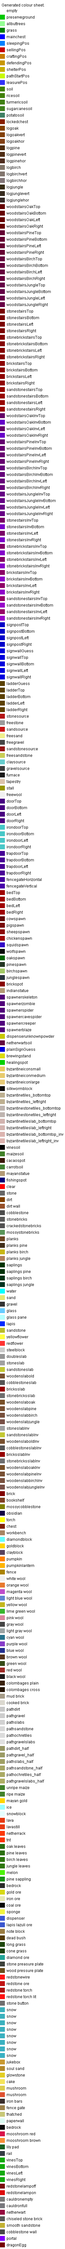
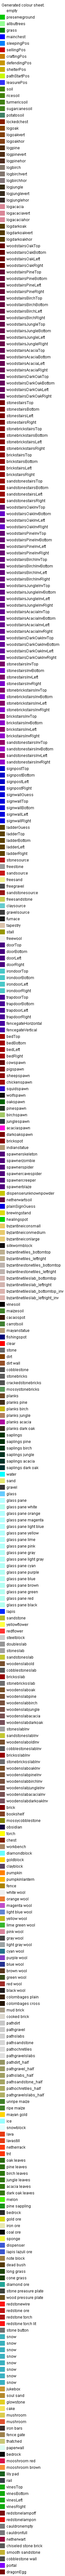
Added support for acacia and dark oak
Notes :
- not enabled in cultures yet
- acacia and dark oak can't be used as "any wood" for now

Changed region(s): [[0.0, 0.0, 0.81, 1.0]]

diff --git a/mill/org/millenaire/common/building/BuildingPlan.java b/mill/org/millenaire/common/building/BuildingPlan.java
@@ -98,6 +98,9 @@ public class BuildingPlan implements IBuildingPlan {
 
 			blogoakvert = "logoakvert", blogoakhor = "logoakhor", blogpinevert = "logpinevert", blogpinehor = "logpinehor", blogbirchvert = "logbirchvert", blogbirchhor = "logbirchhor",
 			blogjunglevert = "logjunglevert", blogjunglehor = "logjunglehor",
+			
+			blogdarkoakvert = "logdarkoakvert", blogdarkoakhor = "logdarkoakhor",
+			blogacaciavert = "logacaciavert", blogacaciahor = "logacaciahor",
 
 			bstonestairGuess = "stonestairGuess", bladderGuess = "ladderGuess", bsignwallGuess = "signwallGuess",
 
@@ -108,6 +111,12 @@ public class BuildingPlan implements IBuildingPlan {
 			bwoodstairsBirchTop = "woodstairsBirchTop", bwoodstairsBirchBottom = "woodstairsBirchBottom", bwoodstairsBirchLeft = "woodstairsBirchLeft", bwoodstairsBirchRight = "woodstairsBirchRight",
 			bwoodstairsJungleTop = "woodstairsJungleTop", bwoodstairsJungleBottom = "woodstairsJungleBottom", bwoodstairsJungleLeft = "woodstairsJungleLeft",
 			bwoodstairsJungleRight = "woodstairsJungleRight",
+			
+			bwoodstairsDarkOakTop = "woodstairsDarkOakTop", bwoodstairsDarkOakBottom = "woodstairsDarkOakBottom", bwoodstairsDarkOakLeft = "woodstairsDarkOakLeft",
+			bwoodstairsDarkOakRight = "woodstairsDarkOakRight",
+			bwoodstairsAcaciaTop = "woodstairsAcaciaTop", bwoodstairsAcaciaBottom = "woodstairsAcaciaBottom", bwoodstairsAcaciaLeft = "woodstairsAcaciaLeft",
+			bwoodstairsAcaciaRight = "woodstairsAcaciaRight",
+			
 
 			bstonestairsTop = "stonestairsTop", bstonestairsBottom = "stonestairsBottom", bstonestairsLeft = "stonestairsLeft", bstonestairsRight = "stonestairsRight",
 			bstonebrickstairsTop = "stonebrickstairsTop", bstonebrickstairsBottom = "stonebrickstairsBottom", bstonebrickstairsLeft = "stonebrickstairsLeft",
@@ -121,6 +130,11 @@ public class BuildingPlan implements IBuildingPlan {
 			bwoodstairsBirchInvBottom = "woodstairsBirchInvBottom", bwoodstairsBirchInvLeft = "woodstairsBirchInvLeft", bwoodstairsBirchInvRight = "woodstairsBirchInvRight",
 			bwoodstairsJungleInvTop = "woodstairsJungleInvTop", bwoodstairsJungleInvBottom = "woodstairsJungleInvBottom", bwoodstairsJungleInvLeft = "woodstairsJungleInvLeft",
 			bwoodstairsJungleInvRight = "woodstairsJungleInvRight",
+			
+			bwoodstairsDarkOakInvTop = "woodstairsDarkOakInvTop", bwoodstairsDarkOakInvBottom = "woodstairsDarkOakInvBottom", bwoodstairsDarkOakInvLeft = "woodstairsDarkOakInvLeft",
+			bwoodstairsDarkOakInvRight = "woodstairsDarkOakInvRight",
+			bwoodstairsAcaciaInvTop = "woodstairsAcaciaInvTop", bwoodstairsAcaciaInvBottom = "woodstairsAcaciaInvBottom", bwoodstairsAcaciaInvLeft = "woodstairsAcaciaInvLeft",
+			bwoodstairsAcaciaInvRight = "woodstairsAcaciaInvRight",
 
 			bstonestairsInvTop = "stonestairsInvTop", bstonestairsInvBottom = "stonestairsInvBottom", bstonestairsInvLeft = "stonestairsInvLeft", bstonestairsInvRight = "stonestairsInvRight",
 			bstonebrickstairsInvTop = "stonebrickstairsInvTop", bstonebrickstairsInvBottom = "stonebrickstairsInvBottom", bstonebrickstairsInvLeft = "stonebrickstairsInvLeft",
@@ -141,6 +155,7 @@ public class BuildingPlan implements IBuildingPlan {
 			birondoorBottom = "irondoorBottom", birondoorRight = "irondoorRight", birondoorLeft = "irondoorLeft", btrapdoorTop = "trapdoorTop", btrapdoorBottom = "trapdoorBottom",
 			btrapdoorRight = "trapdoorRight", btrapdoorLeft = "trapdoorLeft", bfenceGateHorizontal = "fencegateHorizontal", bfenceGateVertical = "fencegateVertical", bbedTop = "bedTop",
 			bbedBottom = "bedBottom", bbedRight = "bedRight", bbedLeft = "bedLeft", boakspawn = "oakspawn", bpinespawn = "pinespawn", bbirchspawn = "birchspawn", bjunglespawn = "junglespawn",
+			bdarkoakspawn = "darkoakspawn", bacaciaspawn = "acaciaspawn",
 			bbrickspot = "brickspot", bindianstatue = "indianstatue", bmayanstatue = "mayanstatue", bbyzantineiconsmall = "byzantineiconsmall", bbyzantineiconmedium = "byzantineiconmedium",
 			bbyzantineiconlarge = "byzantineiconlarge", bfishingspot = "fishingspot", bspawnerskeleton = "spawnerskeleton", bspawnerzombie = "spawnerzombie", bspawnerspider = "spawnerspider",
 			bspawnercavespider = "spawnercavespider", bspawnercreeper = "spawnercreeper", bspawnerblaze = "spawnerblaze", bdispenserunknownpowder = "dispenserunknownpowder",
@@ -161,6 +176,7 @@ public class BuildingPlan implements IBuildingPlan {
 	public static final int NORTH_FACING = 0;
 
 	private static final String prefixWoodstairOak = "woodstairsOak", prefixWoodstairPine = "woodstairsPine", prefixWoodstairBirch = "woodstairsBirch", prefixWoodstairJungle = "woodstairsJungle",
+			prefixWoodstairDarkOak = "woodstairsDarkOak",prefixWoodstairAcacia = "woodstairsAcacia",
 			prefixStonestair = "stonestair", prefixBrickstair = "brickstairs", prefixBrickStonestair = "stonebrickstairs", prefixSandStoneStair = "standstonestairs", prefixLadder = "ladder",
 			prefixSign = "sign", prefixDoor = "door", prefixTrapdoor = "trapdoor", prefixBed = "bed";
 
@@ -653,6 +669,8 @@ public class BuildingPlan implements IBuildingPlan {
 		picts.put(new InvItem(Blocks.log, 1), "Wood_Pine.png");
 		picts.put(new InvItem(Blocks.log, 2), "Wood_Birch.png");
 		picts.put(new InvItem(Blocks.log, 3), "Wood_Jungle.png");
+		picts.put(new InvItem(Blocks.log2, 0), "Wood_Acacia.png");
+		picts.put(new InvItem(Blocks.log2, 1), "Wood_DarkOak.png");
 
 		picts.put(new InvItem(Blocks.stone, 0), "Stone.png");
 		picts.put(new InvItem(Blocks.glass, 0), "Glass.png");
@@ -1189,6 +1207,16 @@ public class BuildingPlan implements IBuildingPlan {
 					reverseColourPoints.put(MillCommonUtilities.getPointHash(Blocks.log, 8 + 3), pt);
 				} else if (pt.name.equals(blogjunglevert)) {
 					reverseColourPoints.put(MillCommonUtilities.getPointHash(Blocks.log, 4 + 3), pt);
+					
+				} else if (pt.name.equals(blogacaciahor)) {
+					reverseColourPoints.put(MillCommonUtilities.getPointHash(Blocks.log2, 8 + 0), pt);
+				} else if (pt.name.equals(blogacaciavert)) {
+					reverseColourPoints.put(MillCommonUtilities.getPointHash(Blocks.log2, 4 + 0), pt);
+					
+				} else if (pt.name.equals(blogdarkoakhor)) {
+					reverseColourPoints.put(MillCommonUtilities.getPointHash(Blocks.log2, 8 + 1), pt);
+				} else if (pt.name.equals(blogdarkoakvert)) {
+					reverseColourPoints.put(MillCommonUtilities.getPointHash(Blocks.log2, 4 + 1), pt);
 
 					// Regular stairs:
 				} else if (pt.name.equals(bwoodstairsOakTop)) {
@@ -1225,6 +1253,24 @@ public class BuildingPlan implements IBuildingPlan {
 					reverseColourPoints.put(MillCommonUtilities.getPointHash(Blocks.jungle_stairs, 2), pt);
 				} else if (pt.name.equals(bwoodstairsJungleRight)) {
 					reverseColourPoints.put(MillCommonUtilities.getPointHash(Blocks.jungle_stairs, 3), pt);
+					
+				} else if (pt.name.equals(bwoodstairsAcaciaTop)) {
+					reverseColourPoints.put(MillCommonUtilities.getPointHash(Blocks.acacia_stairs, 1), pt);
+				} else if (pt.name.equals(bwoodstairsAcaciaBottom)) {
+					reverseColourPoints.put(MillCommonUtilities.getPointHash(Blocks.acacia_stairs, 0), pt);
+				} else if (pt.name.equals(bwoodstairsAcaciaLeft)) {
+					reverseColourPoints.put(MillCommonUtilities.getPointHash(Blocks.acacia_stairs, 2), pt);
+				} else if (pt.name.equals(bwoodstairsAcaciaRight)) {
+					reverseColourPoints.put(MillCommonUtilities.getPointHash(Blocks.acacia_stairs, 3), pt);
+					
+				} else if (pt.name.equals(bwoodstairsDarkOakTop)) {
+					reverseColourPoints.put(MillCommonUtilities.getPointHash(Blocks.dark_oak_stairs, 1), pt);
+				} else if (pt.name.equals(bwoodstairsDarkOakBottom)) {
+					reverseColourPoints.put(MillCommonUtilities.getPointHash(Blocks.dark_oak_stairs, 0), pt);
+				} else if (pt.name.equals(bwoodstairsDarkOakLeft)) {
+					reverseColourPoints.put(MillCommonUtilities.getPointHash(Blocks.dark_oak_stairs, 2), pt);
+				} else if (pt.name.equals(bwoodstairsDarkOakRight)) {
+					reverseColourPoints.put(MillCommonUtilities.getPointHash(Blocks.dark_oak_stairs, 3), pt);
 
 				} else if (pt.name.equals(bstonestairsTop)) {
 					reverseColourPoints.put(MillCommonUtilities.getPointHash(Blocks.stone_stairs, 1), pt);
@@ -1298,6 +1344,24 @@ public class BuildingPlan implements IBuildingPlan {
 					reverseColourPoints.put(MillCommonUtilities.getPointHash(Blocks.jungle_stairs, 6), pt);
 				} else if (pt.name.equals(bwoodstairsJungleInvRight)) {
 					reverseColourPoints.put(MillCommonUtilities.getPointHash(Blocks.jungle_stairs, 7), pt);
+					
+				} else if (pt.name.equals(bwoodstairsAcaciaInvTop)) {
+					reverseColourPoints.put(MillCommonUtilities.getPointHash(Blocks.acacia_stairs, 5), pt);
+				} else if (pt.name.equals(bwoodstairsAcaciaInvBottom)) {
+					reverseColourPoints.put(MillCommonUtilities.getPointHash(Blocks.acacia_stairs, 4), pt);
+				} else if (pt.name.equals(bwoodstairsAcaciaInvLeft)) {
+					reverseColourPoints.put(MillCommonUtilities.getPointHash(Blocks.acacia_stairs, 6), pt);
+				} else if (pt.name.equals(bwoodstairsAcaciaInvRight)) {
+					reverseColourPoints.put(MillCommonUtilities.getPointHash(Blocks.acacia_stairs, 7), pt);
+					
+				} else if (pt.name.equals(bwoodstairsDarkOakInvTop)) {
+					reverseColourPoints.put(MillCommonUtilities.getPointHash(Blocks.dark_oak_stairs, 5), pt);
+				} else if (pt.name.equals(bwoodstairsDarkOakInvBottom)) {
+					reverseColourPoints.put(MillCommonUtilities.getPointHash(Blocks.dark_oak_stairs, 4), pt);
+				} else if (pt.name.equals(bwoodstairsDarkOakInvLeft)) {
+					reverseColourPoints.put(MillCommonUtilities.getPointHash(Blocks.dark_oak_stairs, 6), pt);
+				} else if (pt.name.equals(bwoodstairsDarkOakInvRight)) {
+					reverseColourPoints.put(MillCommonUtilities.getPointHash(Blocks.dark_oak_stairs, 7), pt);
 
 				} else if (pt.name.equals(bstonestairsInvTop)) {
 					reverseColourPoints.put(MillCommonUtilities.getPointHash(Blocks.stone_stairs, 5), pt);
@@ -1908,7 +1972,8 @@ public class BuildingPlan implements IBuildingPlan {
 
 		resCost = new HashMap<InvItem, Integer>();
 
-		int plankCost = 0, plankOakCost = 0, plankPineCost = 0, plankBirchCost = 0, plankJungleCost = 0, glassPaneCost = 0, byzBricksHalf = 0;
+		int plankCost = 0, plankOakCost = 0, plankPineCost = 0, plankBirchCost = 0, 
+				plankJungleCost = 0, plankAcaciaCost = 0, plankDarkOakCost = 0, glassPaneCost = 0, byzBricksHalf = 0;
 
 		for (int i = 0; i < nbfloors; i++) {
 			for (int j = 0; j < length; j++) {
@@ -1927,6 +1992,10 @@ public class BuildingPlan implements IBuildingPlan {
 						plankBirchCost += 4;
 					} else if (p.block == Blocks.log && (p.meta & 3) == 3) {
 						plankJungleCost += 4;
+					} else if (p.block == Blocks.log2 && (p.meta & 3) == 0) {
+						plankAcaciaCost += 4;
+					} else if (p.block == Blocks.log2 && (p.meta & 3) == 1) {
+						plankDarkOakCost += 4;
 					} else if (p.block == Blocks.planks && p.meta == 0) {
 						plankOakCost++;
 					} else if (p.block == Blocks.planks && p.meta == 1) {
@@ -1935,6 +2004,10 @@ public class BuildingPlan implements IBuildingPlan {
 						plankBirchCost++;
 					} else if (p.block == Blocks.planks && p.meta == 3) {
 						plankJungleCost++;
+					} else if (p.block == Blocks.planks && p.meta == 4) {
+						plankAcaciaCost++;
+					} else if (p.block == Blocks.planks && p.meta == 5) {
+						plankDarkOakCost++;
 
 					} else if (p.block == Mill.byzantine_tiles) {
 						byzBricksHalf += 2;
@@ -1992,6 +2065,10 @@ public class BuildingPlan implements IBuildingPlan {
 						plankBirchCost++;
 					} else if (p.block == Blocks.wooden_slab && (p.meta & 7) == 3) {
 						plankJungleCost++;
+					} else if (p.block == Blocks.wooden_slab && (p.meta & 7) == 4) {
+						plankAcaciaCost++;
+					} else if (p.block == Blocks.wooden_slab && (p.meta & 7) == 5) {
+						plankDarkOakCost++;
 
 					} else if (p.block == Blocks.wool) {
 						addToCost(Blocks.wool, 1);
@@ -2025,6 +2102,10 @@ public class BuildingPlan implements IBuildingPlan {
 						plankBirchCost += 2;
 					} else if (p.isSubType(prefixWoodstairJungle)) {
 						plankJungleCost += 2;
+					} else if (p.isSubType(prefixWoodstairAcacia)) {
+						plankAcaciaCost += 2;
+					} else if (p.isSubType(prefixWoodstairDarkOak)) {
+						plankDarkOakCost += 2;
 					} else if (p.isSubType(prefixStonestair)) {
 						addToCost(Blocks.cobblestone, 2);
 					} else if (p.isSubType(prefixBrickStonestair)) {
@@ -2105,6 +2186,14 @@ public class BuildingPlan implements IBuildingPlan {
 
 		if (plankJungleCost > 0) {
 			addToCost(Blocks.log, 3, (int) Math.max(Math.ceil(plankJungleCost * 1.0 / 4), 1));
+		}
+		
+		if (plankAcaciaCost > 0) {
+			addToCost(Blocks.log2, 0, (int) Math.max(Math.ceil(plankAcaciaCost * 1.0 / 4), 1));
+		}
+		
+		if (plankDarkOakCost > 0) {
+			addToCost(Blocks.log2, 1, (int) Math.max(Math.ceil(plankDarkOakCost * 1.0 / 4), 1));
 		}
 
 		if (glassPaneCost > 0) {
@@ -2457,6 +2546,20 @@ public class BuildingPlan implements IBuildingPlan {
 					} else if (pt.isType(blogjunglevert)) {
 						b = Blocks.log;
 						m = 3 + getWoodMeta(1, orientation);
+						
+					} else if (pt.isType(blogacaciahor)) {
+						b = Blocks.log2;
+						m = 0 + getWoodMeta(0, orientation);
+					} else if (pt.isType(blogacaciavert)) {
+						b = Blocks.log2;
+						m = 0 + getWoodMeta(1, orientation);
+						
+					} else if (pt.isType(blogdarkoakhor)) {
+						b = Blocks.log2;
+						m = 1 + getWoodMeta(0, orientation);
+					} else if (pt.isType(blogdarkoakvert)) {
+						b = Blocks.log2;
+						m = 1 + getWoodMeta(1, orientation);
 
 					} else if (pt.isType(bwoodstairsOakTop)) {
 						b = Blocks.oak_stairs;
@@ -2508,6 +2611,32 @@ public class BuildingPlan implements IBuildingPlan {
 						m = getStairMeta(2, orientation);
 					} else if (pt.isType(bwoodstairsJungleLeft)) {
 						b = Blocks.jungle_stairs;
+						m = getStairMeta(3, orientation);
+						
+					} else if (pt.isType(bwoodstairsAcaciaTop)) {
+						b = Blocks.acacia_stairs;
+						m = getStairMeta(0, orientation);
+					} else if (pt.isType(bwoodstairsAcaciaRight)) {
+						b = Blocks.acacia_stairs;
+						m = getStairMeta(1, orientation);
+					} else if (pt.isType(bwoodstairsAcaciaBottom)) {
+						b = Blocks.acacia_stairs;
+						m = getStairMeta(2, orientation);
+					} else if (pt.isType(bwoodstairsAcaciaLeft)) {
+						b = Blocks.acacia_stairs;
+						m = getStairMeta(3, orientation);
+						
+					} else if (pt.isType(bwoodstairsDarkOakTop)) {
+						b = Blocks.dark_oak_stairs;
+						m = getStairMeta(0, orientation);
+					} else if (pt.isType(bwoodstairsDarkOakRight)) {
+						b = Blocks.dark_oak_stairs;
+						m = getStairMeta(1, orientation);
+					} else if (pt.isType(bwoodstairsDarkOakBottom)) {
+						b = Blocks.dark_oak_stairs;
+						m = getStairMeta(2, orientation);
+					} else if (pt.isType(bwoodstairsDarkOakLeft)) {
+						b = Blocks.dark_oak_stairs;
 						m = getStairMeta(3, orientation);
 
 					} else if (pt.isType(bstonestairsTop)) {
@@ -2609,6 +2738,32 @@ public class BuildingPlan implements IBuildingPlan {
 						m = getStairMeta(2, orientation) + 4;
 					} else if (pt.isType(bwoodstairsJungleInvLeft)) {
 						b = Blocks.jungle_stairs;
+						m = getStairMeta(3, orientation) + 4;
+						
+					} else if (pt.isType(bwoodstairsAcaciaInvTop)) {
+						b = Blocks.acacia_stairs;
+						m = getStairMeta(0, orientation) + 4;
+					} else if (pt.isType(bwoodstairsAcaciaInvRight)) {
+						b = Blocks.acacia_stairs;
+						m = getStairMeta(1, orientation) + 4;
+					} else if (pt.isType(bwoodstairsAcaciaInvBottom)) {
+						b = Blocks.acacia_stairs;
+						m = getStairMeta(2, orientation) + 4;
+					} else if (pt.isType(bwoodstairsAcaciaInvLeft)) {
+						b = Blocks.acacia_stairs;
+						m = getStairMeta(3, orientation) + 4;
+						
+					} else if (pt.isType(bwoodstairsDarkOakInvTop)) {
+						b = Blocks.dark_oak_stairs;
+						m = getStairMeta(0, orientation) + 4;
+					} else if (pt.isType(bwoodstairsDarkOakInvRight)) {
+						b = Blocks.dark_oak_stairs;
+						m = getStairMeta(1, orientation) + 4;
+					} else if (pt.isType(bwoodstairsDarkOakInvBottom)) {
+						b = Blocks.dark_oak_stairs;
+						m = getStairMeta(2, orientation) + 4;
+					} else if (pt.isType(bwoodstairsDarkOakInvLeft)) {
+						b = Blocks.dark_oak_stairs;
 						m = getStairMeta(3, orientation) + 4;
 
 					} else if (pt.isType(bstonestairsInvTop)) {
@@ -2912,6 +3067,14 @@ public class BuildingPlan implements IBuildingPlan {
 					} else if (pt.isType(bjunglespawn)) {
 						final Point p = adjustForOrientation(x, y + i + startLevel, z, j - lengthOffset, k - widthOffset, orientation);
 						bblocks.add(new BuildingBlock(p, 0, 0, BuildingBlock.JUNGLESPAWN));
+						nbBlocksToPut++;
+					} else if (pt.isType(bacaciaspawn)) {
+						final Point p = adjustForOrientation(x, y + i + startLevel, z, j - lengthOffset, k - widthOffset, orientation);
+						bblocks.add(new BuildingBlock(p, 0, 0, BuildingBlock.ACACIASPAWN));
+						nbBlocksToPut++;
+					} else if (pt.isType(bdarkoakspawn)) {
+						final Point p = adjustForOrientation(x, y + i + startLevel, z, j - lengthOffset, k - widthOffset, orientation);
+						bblocks.add(new BuildingBlock(p, 0, 0, BuildingBlock.DARKOAKSPAWN));
 						nbBlocksToPut++;
 					} else if (pt.isType(bspawnerskeleton)) {
 						final Point p = adjustForOrientation(x, y + i + startLevel, z, j - lengthOffset, k - widthOffset, orientation);
@@ -3514,6 +3677,14 @@ public class BuildingPlan implements IBuildingPlan {
 							building.getResManager().woodspawn.add(p);
 						}
 					} else if (pt.isType(bjunglespawn)) {
+						if (!building.getResManager().woodspawn.contains(p)) {
+							building.getResManager().woodspawn.add(p);
+						}
+					} else if (pt.isType(bacaciaspawn)) {
+						if (!building.getResManager().woodspawn.contains(p)) {
+							building.getResManager().woodspawn.add(p);
+						}
+					} else if (pt.isType(bdarkoakspawn)) {
 						if (!building.getResManager().woodspawn.contains(p)) {
 							building.getResManager().woodspawn.add(p);
 						}

diff --git a/mill/org/millenaire/common/building/BuildingBlock.java b/mill/org/millenaire/common/building/BuildingBlock.java
@@ -7,7 +7,9 @@ import net.minecraft.nbt.NBTTagCompound;
 import net.minecraft.tileentity.TileEntityDispenser;
 import net.minecraft.tileentity.TileEntityMobSpawner;
 import net.minecraft.world.World;
+import net.minecraft.world.gen.feature.WorldGenCanopyTree;
 import net.minecraft.world.gen.feature.WorldGenForest;
+import net.minecraft.world.gen.feature.WorldGenSavannaTree;
 import net.minecraft.world.gen.feature.WorldGenTaiga2;
 import net.minecraft.world.gen.feature.WorldGenTrees;
 import net.minecraft.world.gen.feature.WorldGenerator;
@@ -42,6 +44,8 @@ public class BuildingBlock {
 	public static byte BYZANTINEICONLARGE = 20;
 	public static byte PRESERVEGROUNDSURFACE = 21;
 	public static byte SPAWNERBLAZE = 22;
+	public static byte ACACIASPAWN = 23;
+	public static byte DARKOAKSPAWN = 24;
 
 	public static BuildingBlock read(final NBTTagCompound nbttagcompound, final String label) {
 		final Point p = Point.read(nbttagcompound, label + "pos");
@@ -249,6 +253,16 @@ public class BuildingBlock {
 			} else if (special == BuildingBlock.JUNGLESPAWN) {
 				if (worldGeneration) {
 					final WorldGenerator wg = new WorldGenTrees(true, 4 + MillCommonUtilities.random.nextInt(7), 3, 3, false);
+					wg.generate(world, MillCommonUtilities.random, p.getiX(), p.getiY(), p.getiZ());
+				}
+			} else if (special == BuildingBlock.ACACIASPAWN) {
+				if (worldGeneration) {
+					final WorldGenerator wg = new WorldGenSavannaTree(false);
+					wg.generate(world, MillCommonUtilities.random, p.getiX(), p.getiY(), p.getiZ());
+				}
+			} else if (special == BuildingBlock.DARKOAKSPAWN) {
+				if (worldGeneration) {
+					final WorldGenerator wg = new WorldGenCanopyTree(true);
 					wg.generate(world, MillCommonUtilities.random, p.getiX(), p.getiY(), p.getiZ());
 				}
 			} else if (special == BuildingBlock.SPAWNERSKELETON) {

diff --git a/mill/org/millenaire/common/InvItem.java b/mill/org/millenaire/common/InvItem.java
@@ -187,6 +187,10 @@ public class InvItem implements Comparable<InvItem> {
 			return MLN.string("ui.woodbirch");
 		} else if (meta == 3 && block == Blocks.log) {
 			return MLN.string("ui.woodjungle");
+		} else if (meta == 0 && block == Blocks.log2) {
+			return MLN.string("ui.woodacacia");
+		} else if (meta == 1 && block == Blocks.log2) {
+			return MLN.string("ui.wooddarkoak");
 		} else if (meta == -1) {
 			return Mill.proxy.getItemName(item, 0);
 		} else {
